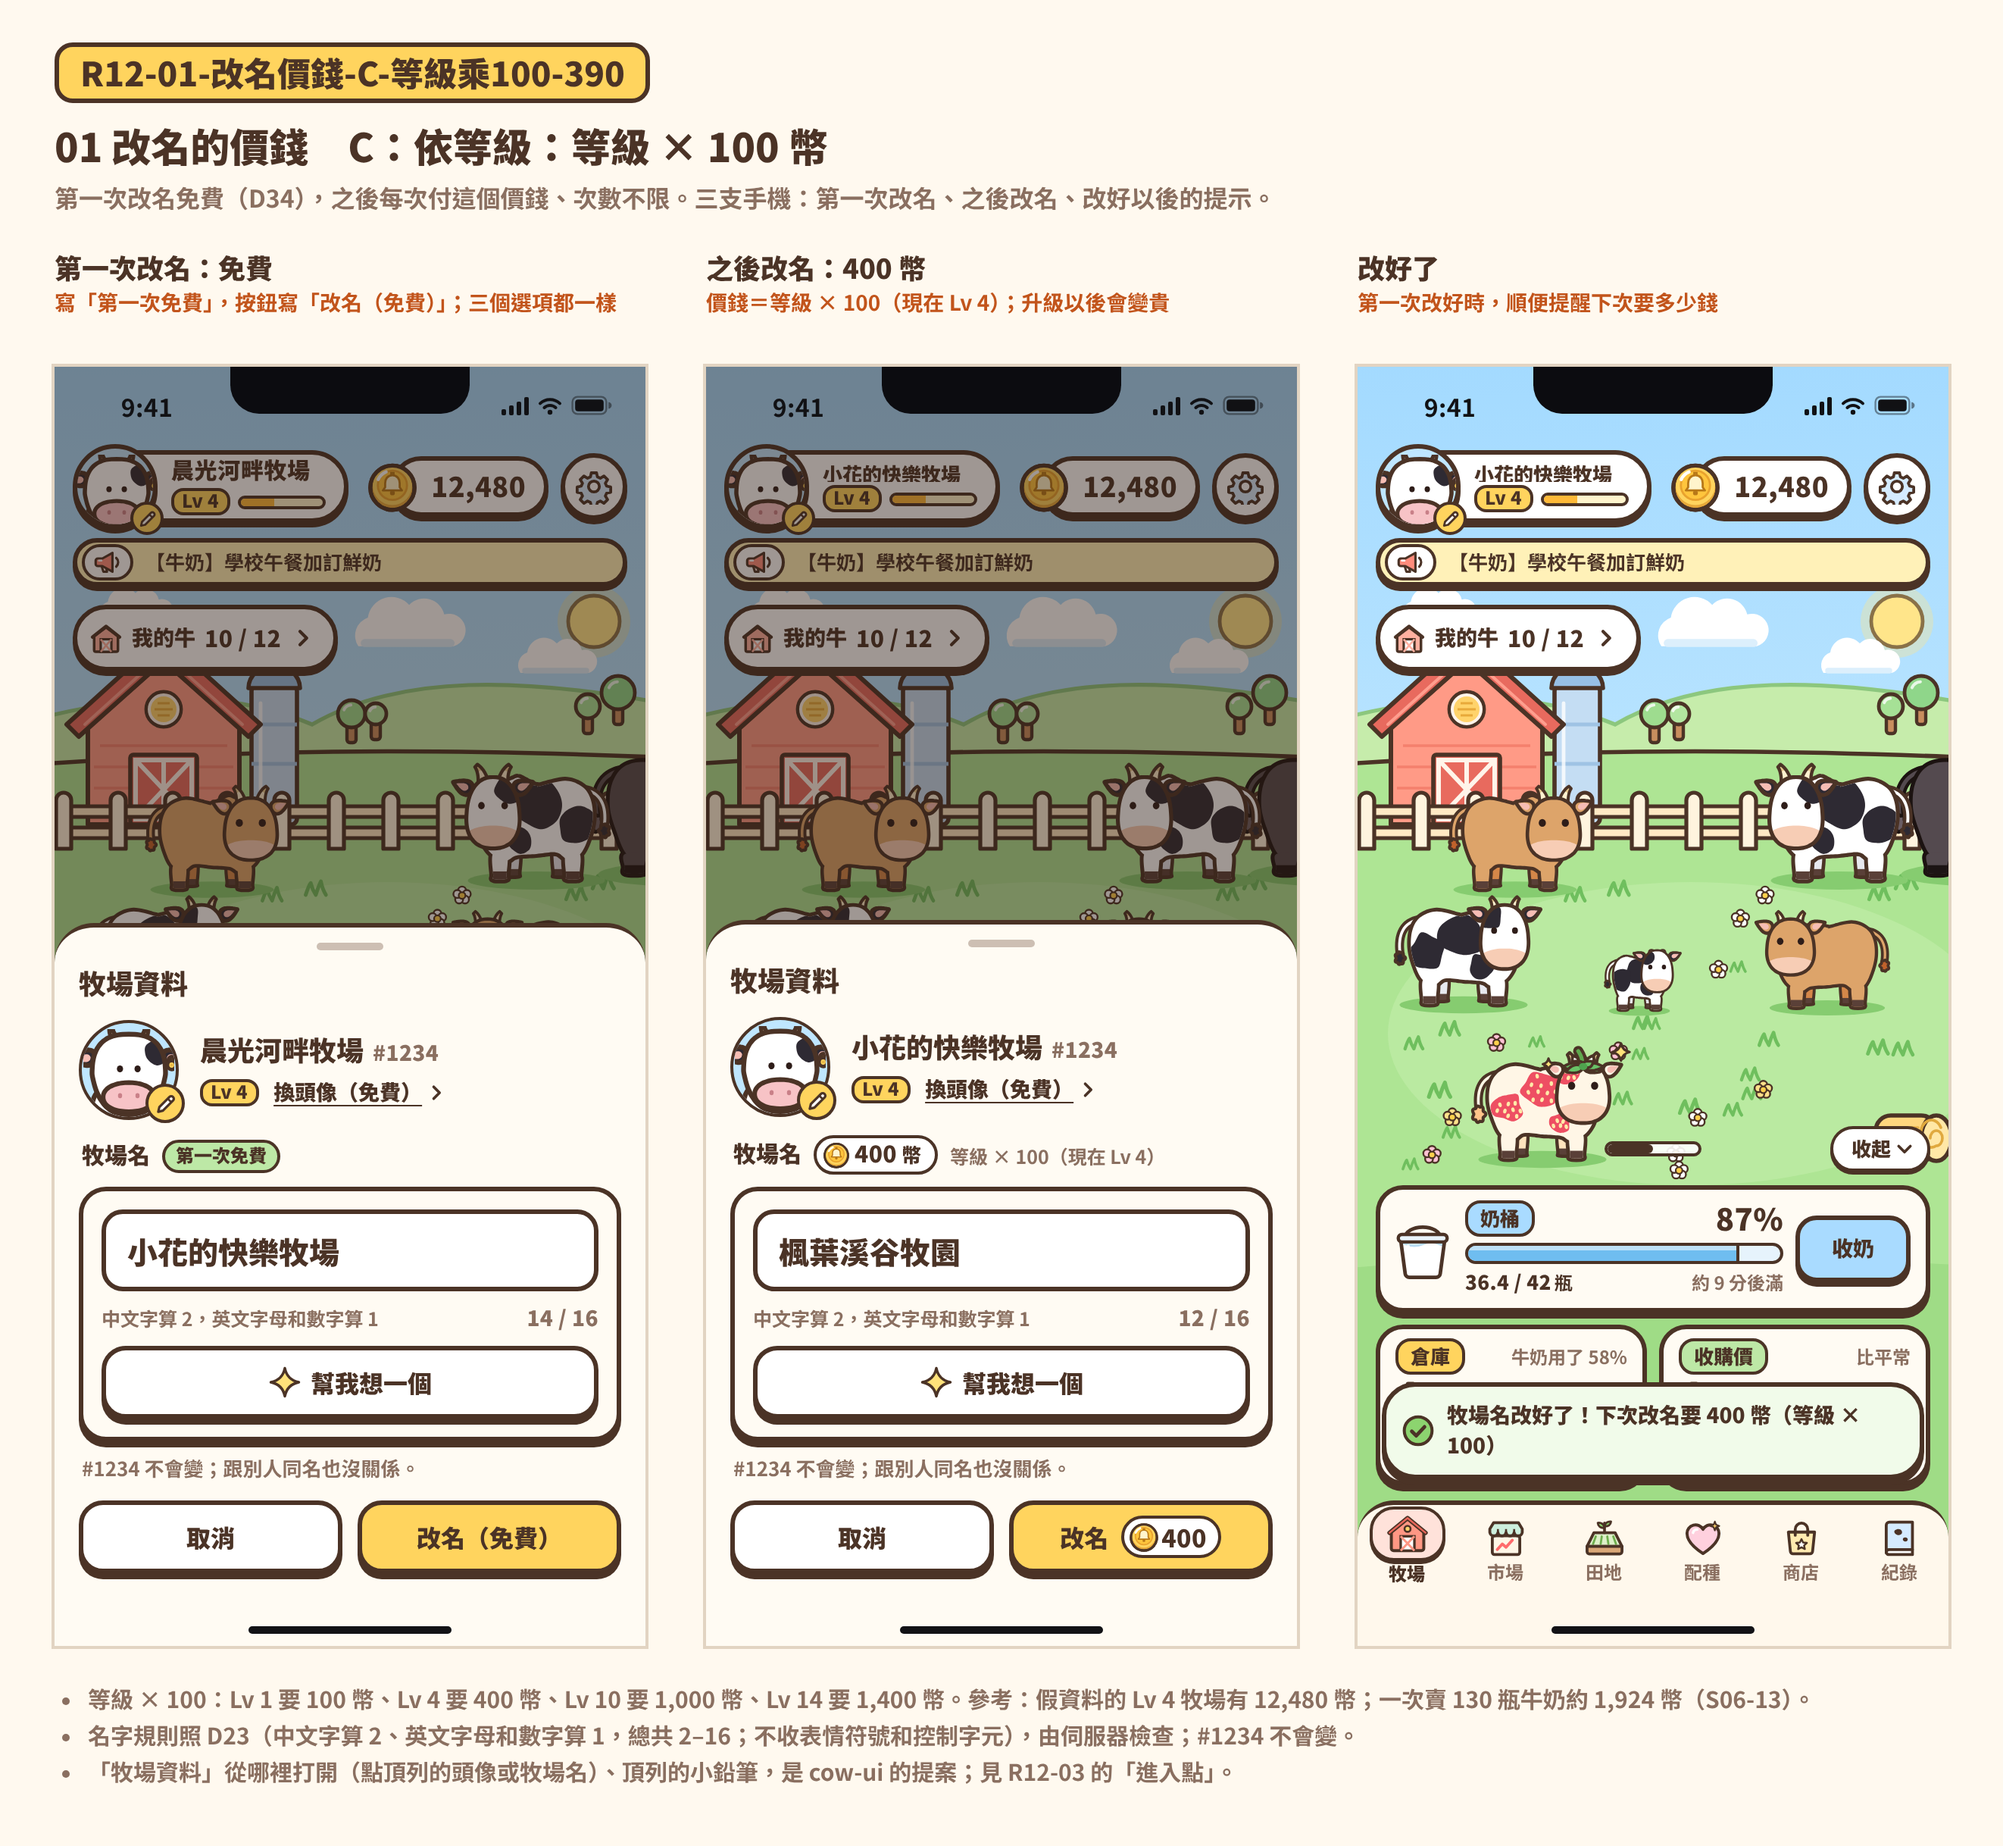
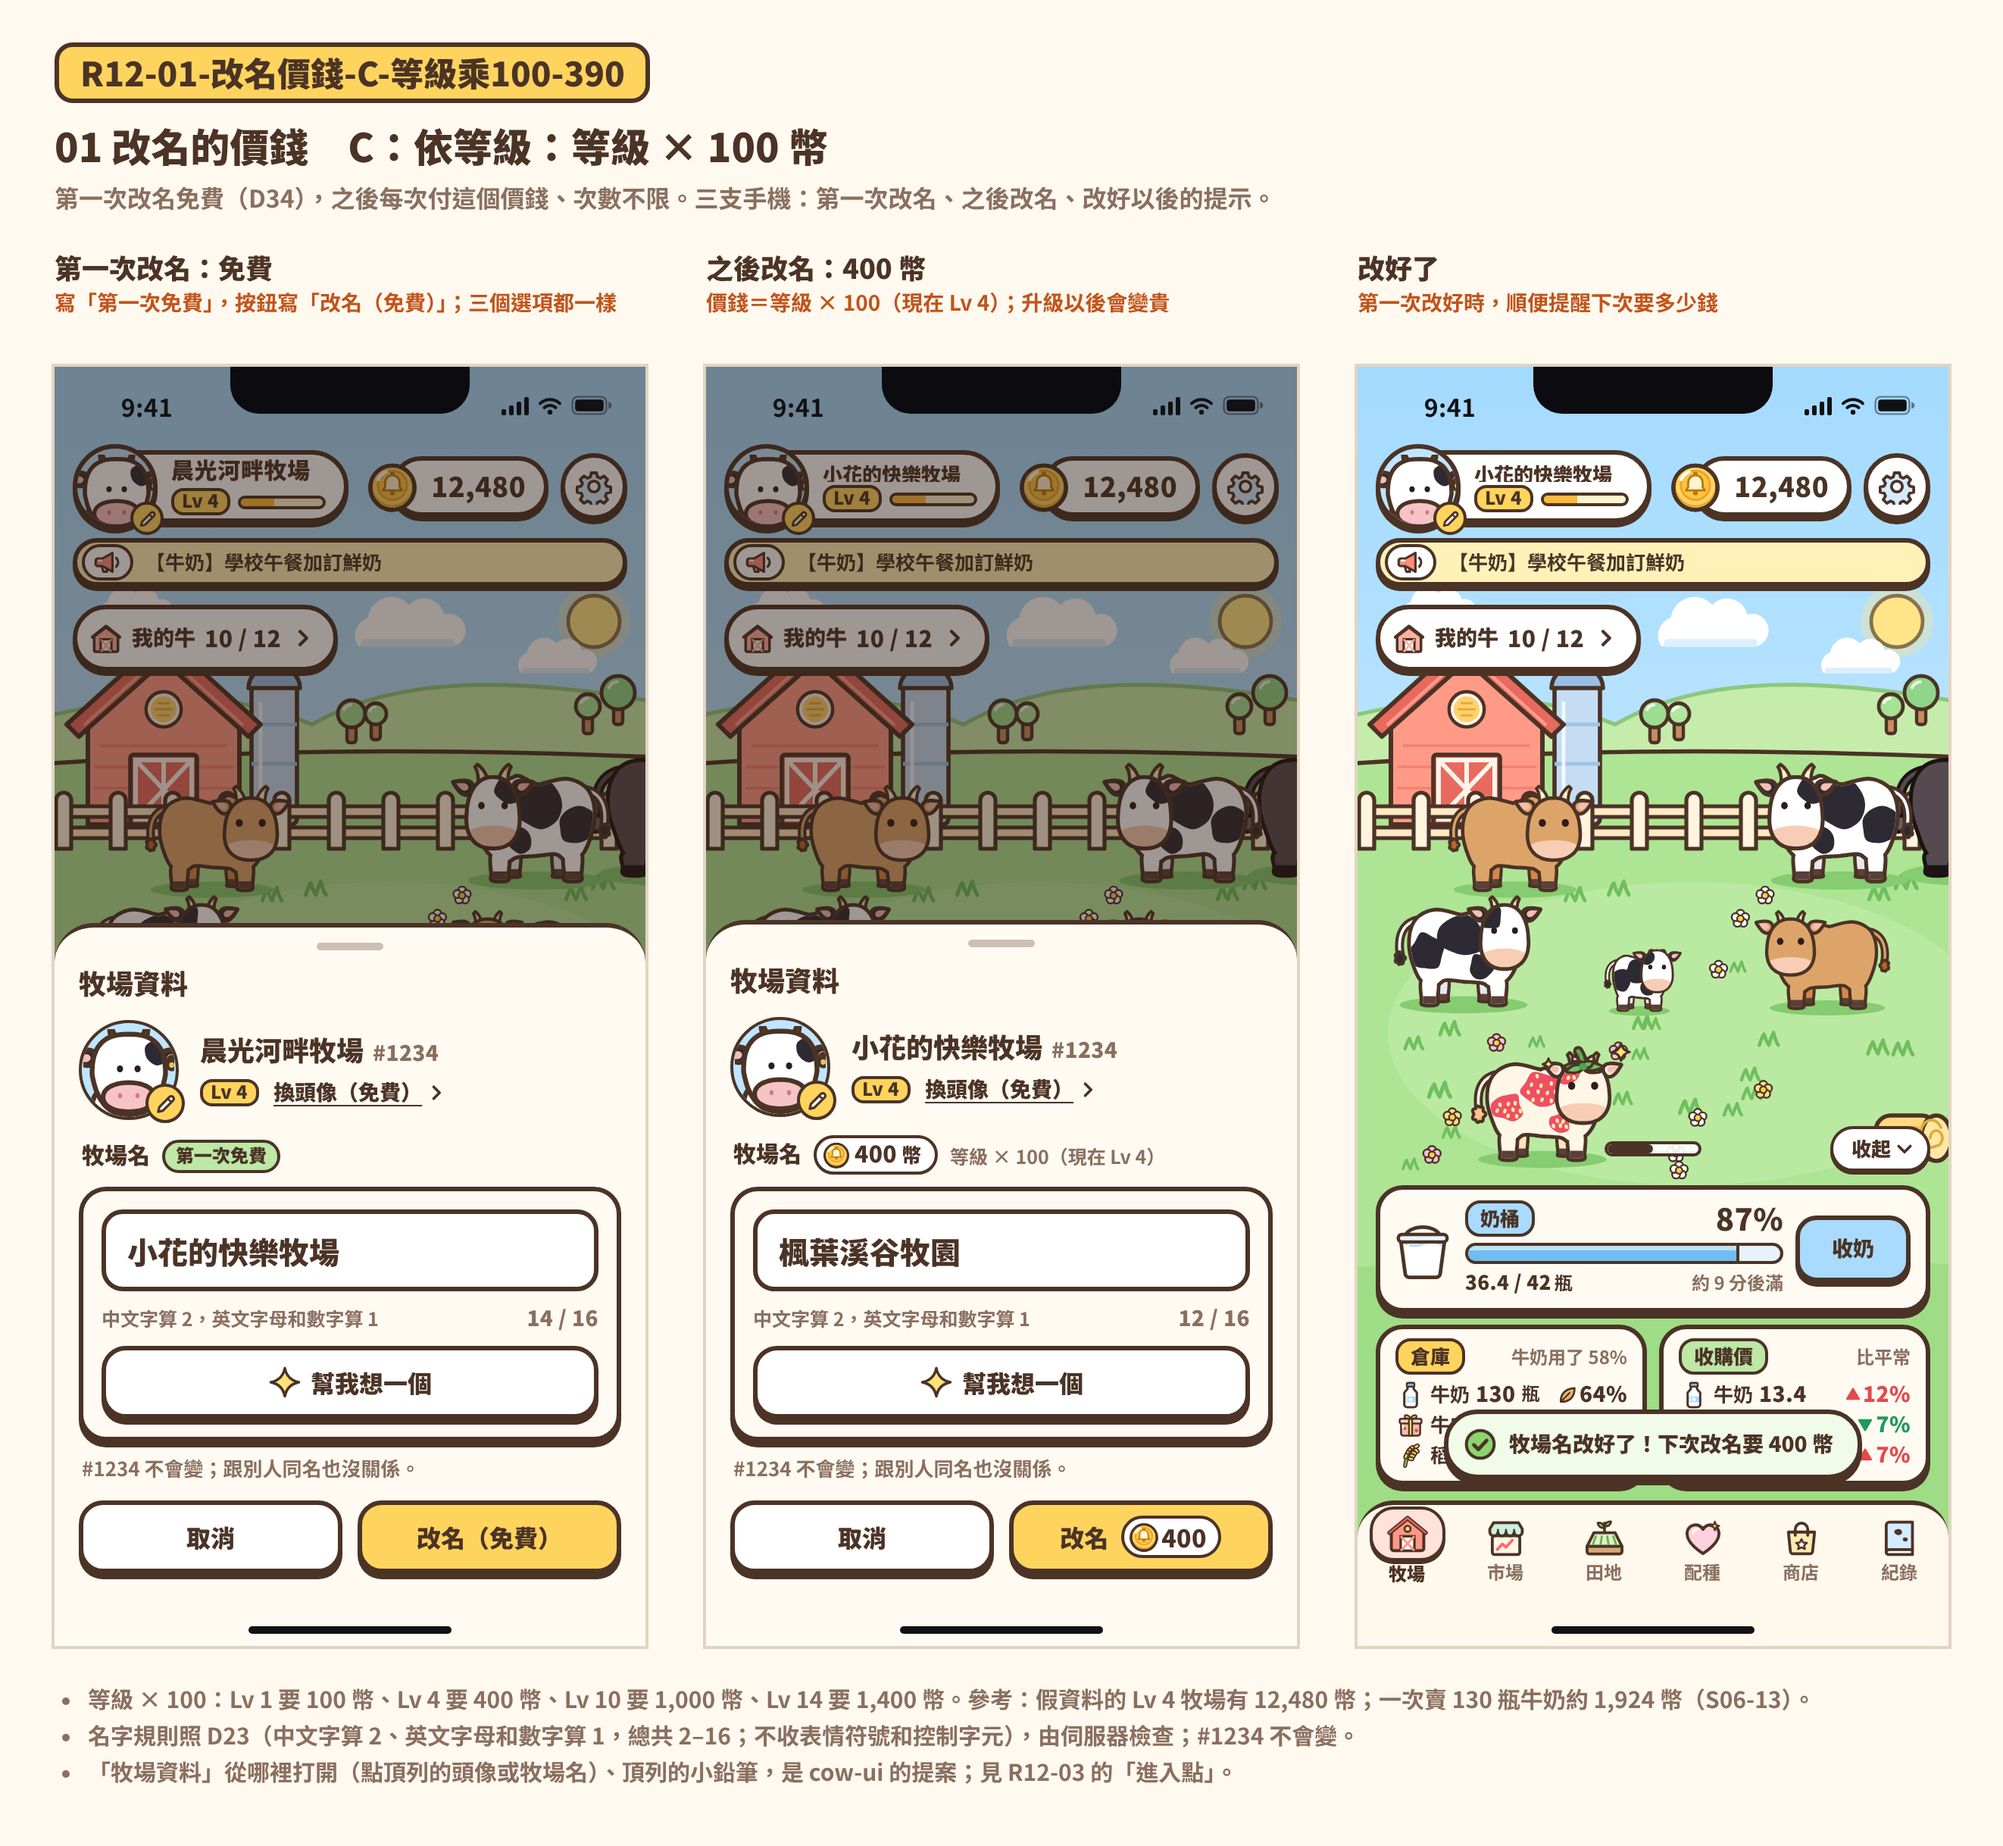
第 12 輪草稿：預告那支手機用平常的收購價；選項 C 改好後的提示只寫價錢（不從「等級 × 100」中間斷行）

Changed region(s): [[0.6823, 0.7488, 0.9614, 0.8112]]

diff --git a/design/artboards/round12/src/r12.js b/design/artboards/round12/src/r12.js
@@ -64,7 +64,7 @@ const NAME1 = '小花的快樂牧場', NAME2 = '楓葉溪谷牧園';
 const OPT = {
   A: { price: 500, name: '固定 500 幣', file: '固定500幣' },
   B: { price: 1000, name: '固定 1,000 幣', file: '固定1000幣' },
-  C: { price: RANCH.level * 100, name: '依等級：等級 × 100 幣', file: '等級乘100', rule: `等級 × 100（現在 Lv ${RANCH.level}）`, after: '（等級 × 100）' },
+  C: { price: RANCH.level * 100, name: '依等級：等級 × 100 幣', file: '等級乘100', rule: `等級 × 100（現在 Lv ${RANCH.level}）` },
 };
 function keyboard(w) {
   const rows = [10, 9, 7].map((n) => `<div class="kb-row">${'<i></i>'.repeat(n)}</div>`).join('');
@@ -95,7 +95,8 @@ function profSheet({ name = RANCH.name, value = NAME1, price = 0, rule = '', err
     <div class="btn-row">${btn(t('cancel'))}${go}</div>
   </section>`;
 }
-const doneToast = (o) => toast('ok', `牧場名改好了！下次改名要 ${fmt(o.price)} 幣${o.after || ''}`);
+// 提示只寫價錢（算法寫在面板上；加上「（等級 × 100）」在 390 寬會從中間斷行）
+const doneToast = (o) => toast('ok', `牧場名改好了！下次改名要 ${fmt(o.price)} 幣`);
 // 牧場資料的各個狀態（價錢照選項 o）
 const ST = (o) => ({
   entry: { cap: '進入點', note: '頂列頭像的右下角多一枝小鉛筆；點頭像或牧場名，打開「牧場資料」', html: ranchPage(ctx), after: ring },
@@ -189,11 +190,14 @@ function pricesCard(sel, mk) {
     <p class="hint pr-base">${t('s06.baseLine', { milk: 12, beef: 12, rice: 5 })}</p>
   </article>`;
 }
+// mk：收購價（超級事件發生了＝牛奶 1.2、牛肉 24；預告的時候還沒開始，照平常的假資料）
 const MK_NEWS = { milk: { ...MARKET.milk, price: 1.2 }, beef: { ...MARKET.beef, price: 24 }, rice: { ...MARKET.rice } };
-function marketPhone(card, top) {
-  const content = `<div class="stack">${pricesCard('milk', MK_NEWS)}
+const MK_PLAIN = { milk: { ...MARKET.milk }, beef: { ...MARKET.beef }, rice: { ...MARKET.rice } };
+function marketPhone(card, top, mk = MK_NEWS) {
+  const sell = mk === MK_NEWS ? { qty: 130, avg: 1.2, total: 156, lots: 3 } : { qty: 130, avg: 14.8, total: 1924, lots: 3 }; // 後者跟 S06 一樣
+  const content = `<div class="stack">${pricesCard('milk', mk)}
     <div class="headline"><span class="hl-ic">${icon('news', 20)}</span><span class="hl-text">${newsTag(top)}${top.text}</span><span class="hl-when">${ago(top.when)}</span></div>
-    ${sellCard(MK_NEWS.milk, 'ok', { qty: 130, avg: 1.2, total: 156, lots: 3 })}${card}</div>`;
+    ${sellCard(mk.milk, 'ok', sell)}${card}</div>`;
   return { html: frame(dev, { tab: 'market', content }), after: (el) => { const c = el.querySelector('.content'), n = el.querySelector('.news-card'); c.scrollTop = n.offsetTop - 6; } };
 }
 // 牧場頁的提示 A：原本的大新聞提示卡（S03-15／16／17）換成超級的樣子
@@ -273,7 +277,7 @@ function r1203() {
 }
 function r1204(k) {
   const a = k === 'A', items = [EV.supBeef, EV.swanMilk, ...NORMAL], soon = [EV.swanAllSoon, ...NORMAL];
-  const now = marketPhone(newsCardDraft(k, items), EV.swanMilk), pre = marketPhone(newsCardDraft(k, soon), EV.swanAllSoon);
+  const now = marketPhone(newsCardDraft(k, items), EV.swanMilk), pre = marketPhone(newsCardDraft(k, soon), EV.swanAllSoon, MK_PLAIN);
   return board({
     id: `R12-04-新聞卡-${k}-${a ? '同一列換顏色' : '釘在最上面的大卡'}-390`, title: `04 市場的新聞卡　${k}：${a ? '留在原本的位置，那一則換顏色' : '釘在新聞卡最上面，變成大卡'}`,
     sub: '超級大事件：金色、「超級大事件」標籤；超級黑天鵝：深色、「超級黑天鵝」標籤。兩種都寫出幅度 +100%／−90%。',
